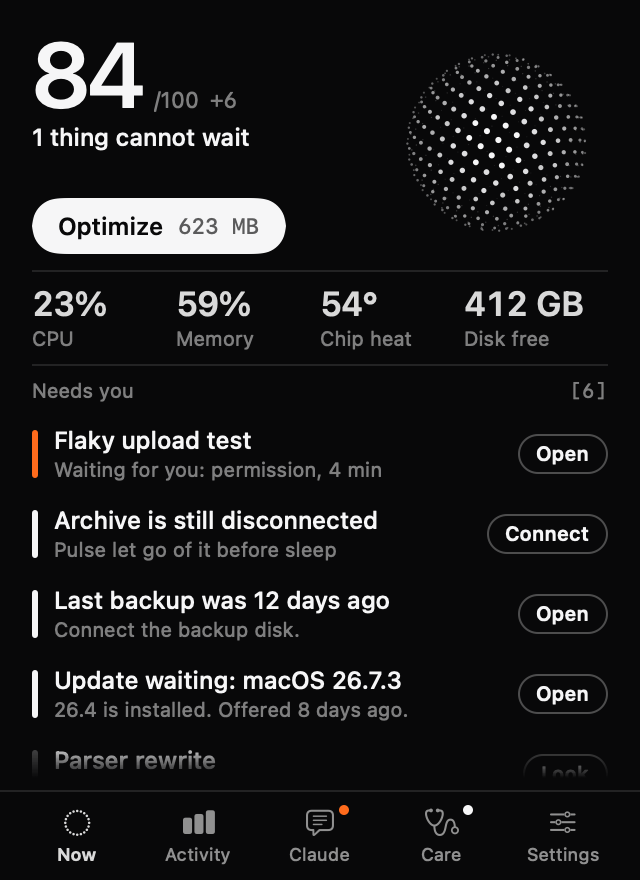
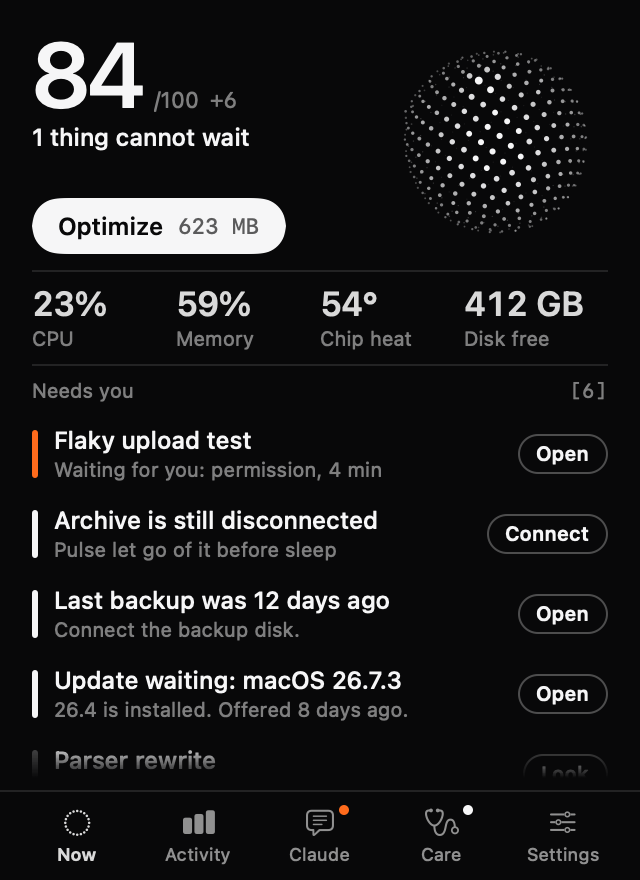
A layout bench without a window; the activity list starts with its first forty rows

Changed region(s): [[0.625, 0.0614, 0.9375, 0.2761]]

diff --git a/Sources/Pulse/ActivityPage.swift b/Sources/Pulse/ActivityPage.swift
@@ -6,6 +6,9 @@ struct ActivityPage: View {
     @ObservedObject var model: Model
     @ObservedObject var ui: PanelState
     @FocusState private var searching: Bool
+    @State private var everything = false
+    /// What is not in the first forty does close to nothing. Search looks through all of them.
+    private static let first = 40
 
     var body: some View {
         let all = model.snap?.consumers ?? []
@@ -33,7 +36,12 @@ struct ActivityPage: View {
         ScrollView {
             LazyVStack(spacing: 4) {
                 switch ui.sort {
-                case .cpu, .memory: ForEach(shown(all)) { ConsumerRow(model: model, ui: ui, consumer: $0, byMemory: ui.sort == .memory, decimals: true) }
+                case .cpu, .memory:
+                    let rows = shown(all)
+                    ForEach(everything || !ui.filter.isEmpty ? rows[...] : rows.prefix(Self.first)) { ConsumerRow(model: model, ui: ui, consumer: $0, armed: ui.armed == $0.id, byMemory: ui.sort == .memory, decimals: true) }
+                    if !everything, ui.filter.isEmpty, rows.count > Self.first {
+                        line("All \(rows.count)", icon: "chevron.down") { everything = true }.foregroundStyle(.secondary).frame(height: 24)
+                    }
                 case .hours: ForEach(past) { pastRow($0, all) }
                 case .ports: ports
                 }
@@ -130,9 +138,12 @@ private struct Meter: View {
 
 /// One row of "what is running". The row opens its page; the x closes, and only on the second press.
 struct ConsumerRow: View {
-    @ObservedObject var model: Model
-    @ObservedObject var ui: PanelState
+    // Not observed: the page that holds the rows is, and six hundred observers of one object are not free.
+    let model: Model
+    let ui: PanelState
     let consumer: Consumer
+    /// Handed over, because the row itself watches nothing.
+    let armed: Bool
     var byMemory = false
     var decimals = false
 
@@ -151,7 +162,7 @@ struct ConsumerRow: View {
                 .contentShape(Rectangle())
             }
             .buttonStyle(.plain).help("What it is, and what can be done")
-            CloseControl(armed: ui.armed == c.id, allowed: model.mayClose(c), warning: model.warning(closing: c),
+            CloseControl(armed: armed, allowed: model.mayClose(c), warning: armed ? model.warning(closing: c) : nil,
                          arm: { ui.arm(c.id) }, fire: { ui.disarm(); model.close(c) })
         }
         .frame(height: 22)

diff --git a/Sources/Pulse/Pieces.swift b/Sources/Pulse/Pieces.swift
@@ -258,27 +258,24 @@ struct Sparkline: View {
     var bars = 20
 
     var body: some View {
-        GeometryReader { geo in
-            let w = geo.size.width, h = geo.size.height
+        // One drawing instead of a view a capsule.
+        Canvas { c, size in
+            let w = size.width, h = size.height
             let thick = min(max((w - CGFloat(bars - 1) * 2) / CGFloat(bars), 2), 5)
+            let step = bars > 1 ? (w - thick) / CGFloat(bars - 1) : 0
             // Newest at the right; missing history on the left stays as faint dots.
             let padded = Array(repeating: -1.0, count: max(0, 60 - values.count)) + values.suffix(60)
             let per = max(padded.count / bars, 1)
-            HStack(alignment: .bottom, spacing: (w - thick * CGFloat(bars)) / CGFloat(bars - 1)) {
-                ForEach(0..<bars, id: \.self) { i in
-                    let chunk = padded[(i * per)..<min((i + 1) * per, padded.count)].filter { $0 >= 0 }
-                    let v = chunk.isEmpty ? -1 : chunk.reduce(0, +) / Double(chunk.count)
-                    Capsule()
-                        .fill(color.opacity(v < 0 ? 0.16 : 0.9))
-                        .frame(width: thick, height: v < 0 ? thick : max(thick, CGFloat(v) * h))
-                }
+            for i in 0..<bars {
+                let chunk = padded[(i * per)..<min((i + 1) * per, padded.count)].filter { $0 >= 0 }
+                let v = chunk.isEmpty ? -1 : chunk.reduce(0, +) / Double(chunk.count)
+                let tall = v < 0 ? thick : max(thick, CGFloat(min(v, 1)) * h)
+                let r = CGRect(x: CGFloat(i) * step, y: h - tall, width: thick, height: tall)
+                c.fill(Path(roundedRect: r, cornerRadius: thick / 2), with: .color(color.opacity(v < 0 ? 0.16 : 0.9)))
             }
-            .frame(width: w, height: h, alignment: .bottom)
         }
-        .environment(\.layoutDirection, .leftToRight)
     }
 }
-
 
 /// An x, then "Close?" in orange. Two presses to close anything.
 struct CloseControl: View {

diff --git a/Sources/Pulse/Bench.swift b/Sources/Pulse/Bench.swift
@@ -81,3 +81,39 @@ final class FrameMeter: NSObject {
     }
     app.run()
 }
+
+/// Milliseconds of the main thread for a new page, and for a new reading on the same page. Opens no window
+/// on screen and needs no display, so it can be run anywhere.
+@MainActor func benchLayout() {
+    NSApplication.shared.setActivationPolicy(.prohibited)
+    let model = Model(live: false)
+    model.loadOnce()
+    model.checkOnce()
+    let host = NSHostingView(rootView: PanelView(model: model, page: .overview))
+    host.frame = NSRect(x: 0, y: 0, width: 320, height: 440)
+    let window = NSWindow(contentRect: host.frame, styleMask: [.borderless], backing: .buffered, defer: false)
+    window.contentView = host
+    host.layoutSubtreeIfNeeded()
+    let rep = host.bitmapImageRepForCachingDisplay(in: host.bounds)!
+    func time(_ act: () -> Void) -> Double {
+        let t = CACurrentMediaTime()
+        act()
+        RunLoop.main.run(until: Date().addingTimeInterval(0.0005))
+        host.layoutSubtreeIfNeeded()
+        return (CACurrentMediaTime() - t) * 1000
+    }
+    for p in [Page.overview, .processes, .sessions, .care, .health, .settings] {
+        var turn: [Double] = [], fresh: [Double] = []
+        for _ in 0..<15 {
+            NotificationCenter.default.post(name: PanelView.goTo, object: (p == .settings ? Page.care : .settings).rawValue)
+            RunLoop.main.run(until: Date().addingTimeInterval(0.25))
+            turn.append(time { NotificationCenter.default.post(name: PanelView.goTo, object: p.rawValue) })
+            RunLoop.main.run(until: Date().addingTimeInterval(0.25))
+            fresh.append(time { model.snap = model.snap; model.system.cpuPercent += 0.1 })
+        }
+        host.cacheDisplay(in: host.bounds, to: rep)
+        turn.sort(); fresh.sort()
+        print(String(format: "%@: page median %.1f ms, worst %.1f; reading median %.1f ms, worst %.1f", p.rawValue, turn[7], turn[14], fresh[7], fresh[14]))
+    }
+    print("rows \(model.snap?.consumers.count ?? 0)")
+}

diff --git a/Sources/Pulse/NowPage.swift b/Sources/Pulse/NowPage.swift
@@ -24,7 +24,7 @@ struct NowPage: View {
             }
             .frame(height: 20)
             TileLabel("Using the most")
-            ForEach((model.snap?.topCPU ?? []).prefix(4)) { ConsumerRow(model: model, ui: ui, consumer: $0) }
+            ForEach((model.snap?.topCPU ?? []).prefix(4)) { ConsumerRow(model: model, ui: ui, consumer: $0, armed: ui.armed == $0.id) }
             Spacer(minLength: 0)
         } else {
             TileLabel("Needs you", count: "\(needs.count)")
@@ -36,7 +36,7 @@ struct NowPage: View {
                     }
                     if needs.count < 3 {
                         TileLabel("Using the most").padding(.top, 6)
-                        ForEach((model.snap?.topCPU ?? []).prefix(4)) { ConsumerRow(model: model, ui: ui, consumer: $0) }
+                        ForEach((model.snap?.topCPU ?? []).prefix(4)) { ConsumerRow(model: model, ui: ui, consumer: $0, armed: ui.armed == $0.id) }
                     }
                 }
             }

diff --git a/Sources/Pulse/main.swift b/Sources/Pulse/main.swift
@@ -171,6 +171,8 @@ if args.contains("--mcp") {
     MainActor.assumeIsolated { renderFilm(to: args[i + 1]) }
 } else if args.contains("--bench-window") {
     MainActor.assumeIsolated { benchWindow() }
+} else if args.contains("--bench-layout") {
+    MainActor.assumeIsolated { benchLayout() }
 } else if args.contains("--health") {
     // One check, printed and not stored.
     let report = HealthProbe.take(system: SystemSampler().sampleBlocking(), store: .load(), settings: .load())

diff --git a/Sources/Pulse/CarePage.swift b/Sources/Pulse/CarePage.swift
@@ -325,7 +325,7 @@ struct HistoryPage: View {
 }
 
 struct ReceiptRow: View {
-    @ObservedObject var model: Model
+    let model: Model
     let receipt: Receipt
     /// The page of what was just done knows when it was.
     var dated = true
